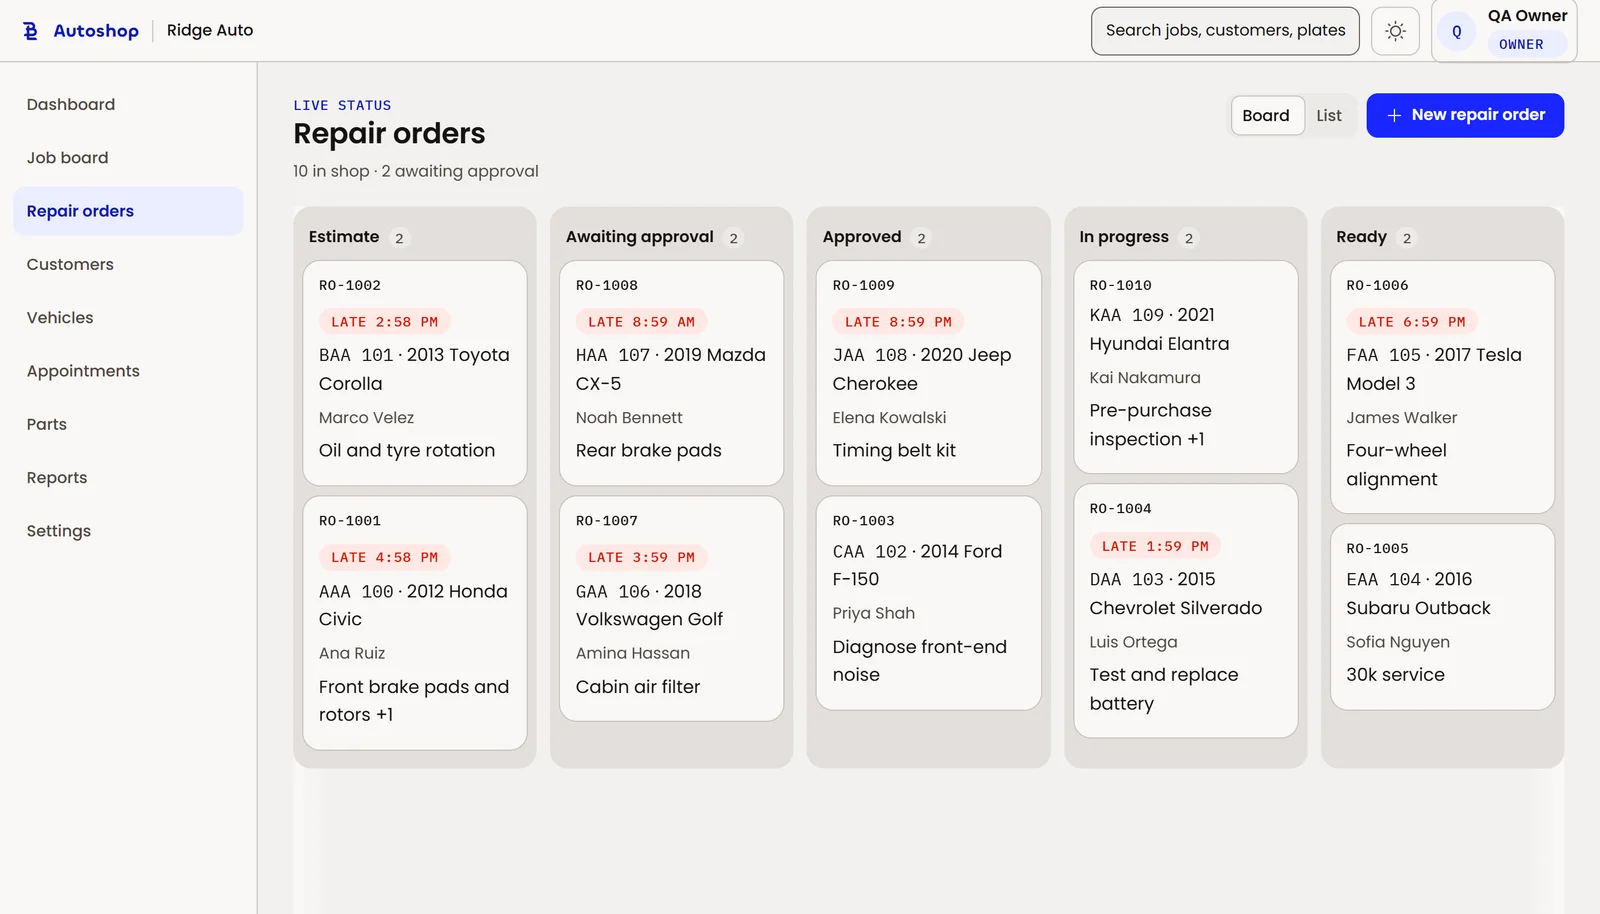
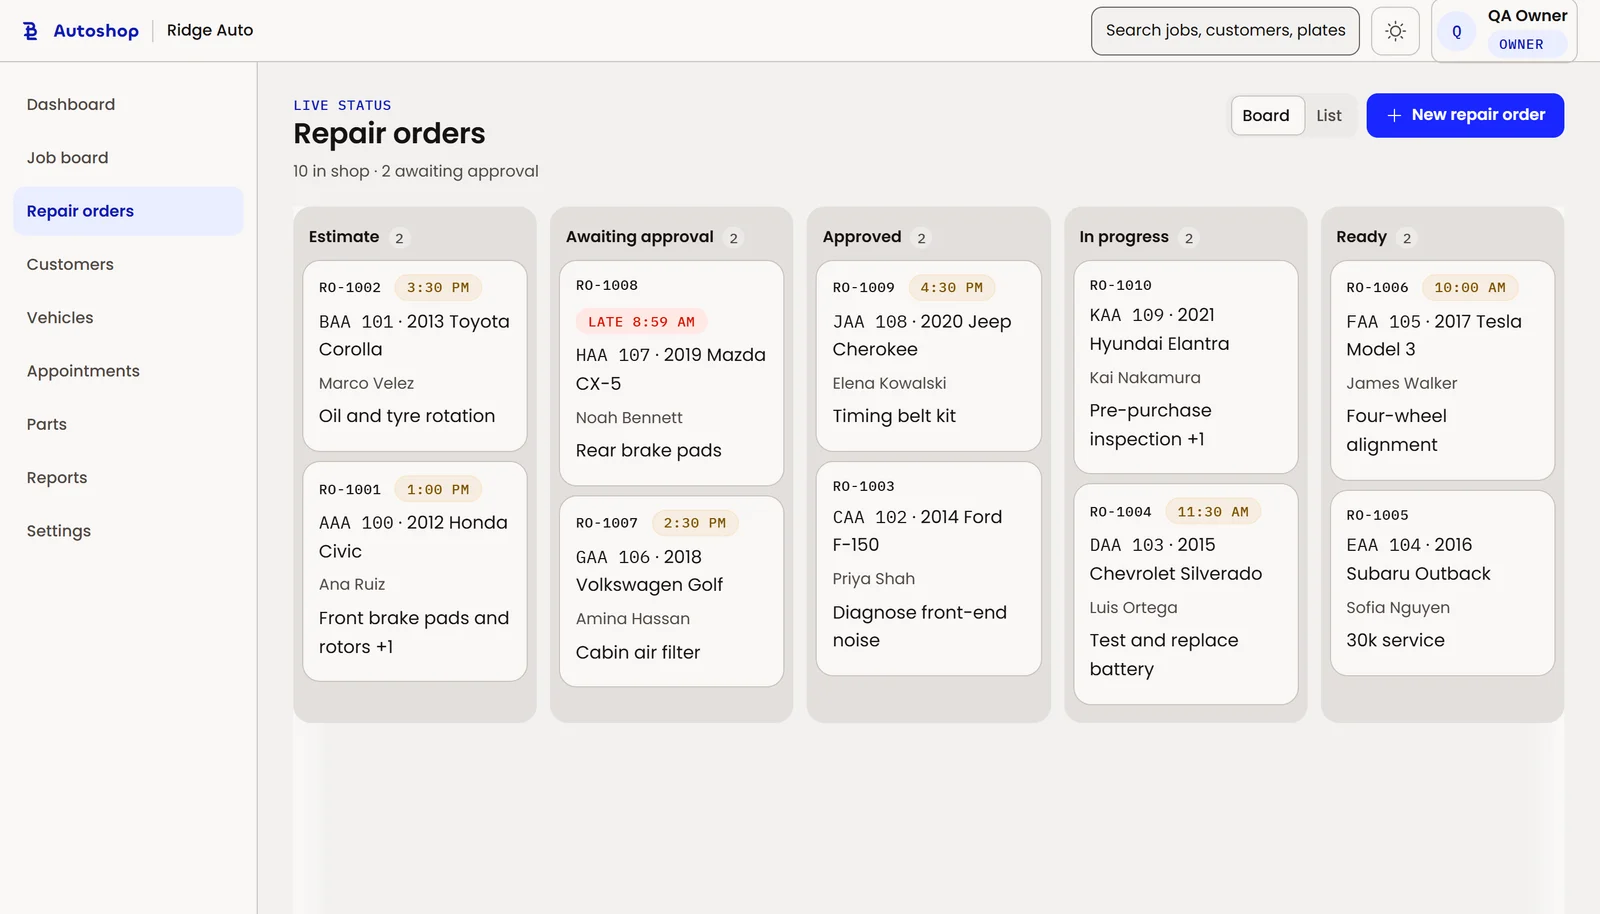
Fernando talk: slide 13 - Lima in front, RoKa right; Autoshop board with one late order, not eight
Claude-Session: https://claude.ai/code/session_01QQdHrxv1n7Fox9Wn4k99j5

Changed region(s): [[0.1562, 0.3063, 0.8125, 0.8271], [0.8125, 0.3063, 0.9688, 0.7965], [0.9688, 0.7965, 1.0, 0.8271]]

diff --git a/src/decks/agents-api/Slides.tsx b/src/decks/agents-api/Slides.tsx
@@ -407,12 +407,12 @@ export function MemorySlide() {
   );
 }
 
-/* 13 · Tres productos, el mismo ciclo. Whole screens in browser windows (demo data; RoKa in its dark theme): make-assets.js
+/* 13 · Tres productos, el mismo ciclo. Lima in front; whole screens in browser windows (demo data; RoKa in its dark theme): make-assets.js
    prepares every capture at the window's aspect, cut only where the page itself continues. */
 const products = [
   { name: "Autoshop", body: "De cero a demo guiada en un día", src: autoshopShot, bar: "Autoshop · Órdenes de reparación" },
-  { name: "RoKa IS", body: "Sistema de gestión de importaciones", src: rokaShot, bar: "RoKa IS · Pedidos", dark: true },
   { name: "Lima", body: "Plataforma de licencias en producción", src: limaShot, bar: "Lima · Consola de licencias" },
+  { name: "RoKa IS", body: "Sistema de gestión de importaciones", src: rokaShot, bar: "RoKa IS · Pedidos", dark: true },
 ];
 
 export function ProductsSlide() {

diff --git a/src/decks/agents-api/agents-api.css b/src/decks/agents-api/agents-api.css
@@ -984,7 +984,7 @@
   color: #b8f0cf;
 }
 
-/* ---------- 13 · Products in browser windows, fanned: the richest screen in front ---------- */
+/* ---------- 13 · Products in browser windows, fanned: Lima in front, the others behind ---------- */
 .an-showcase {
   position: relative;
   z-index: 2;
